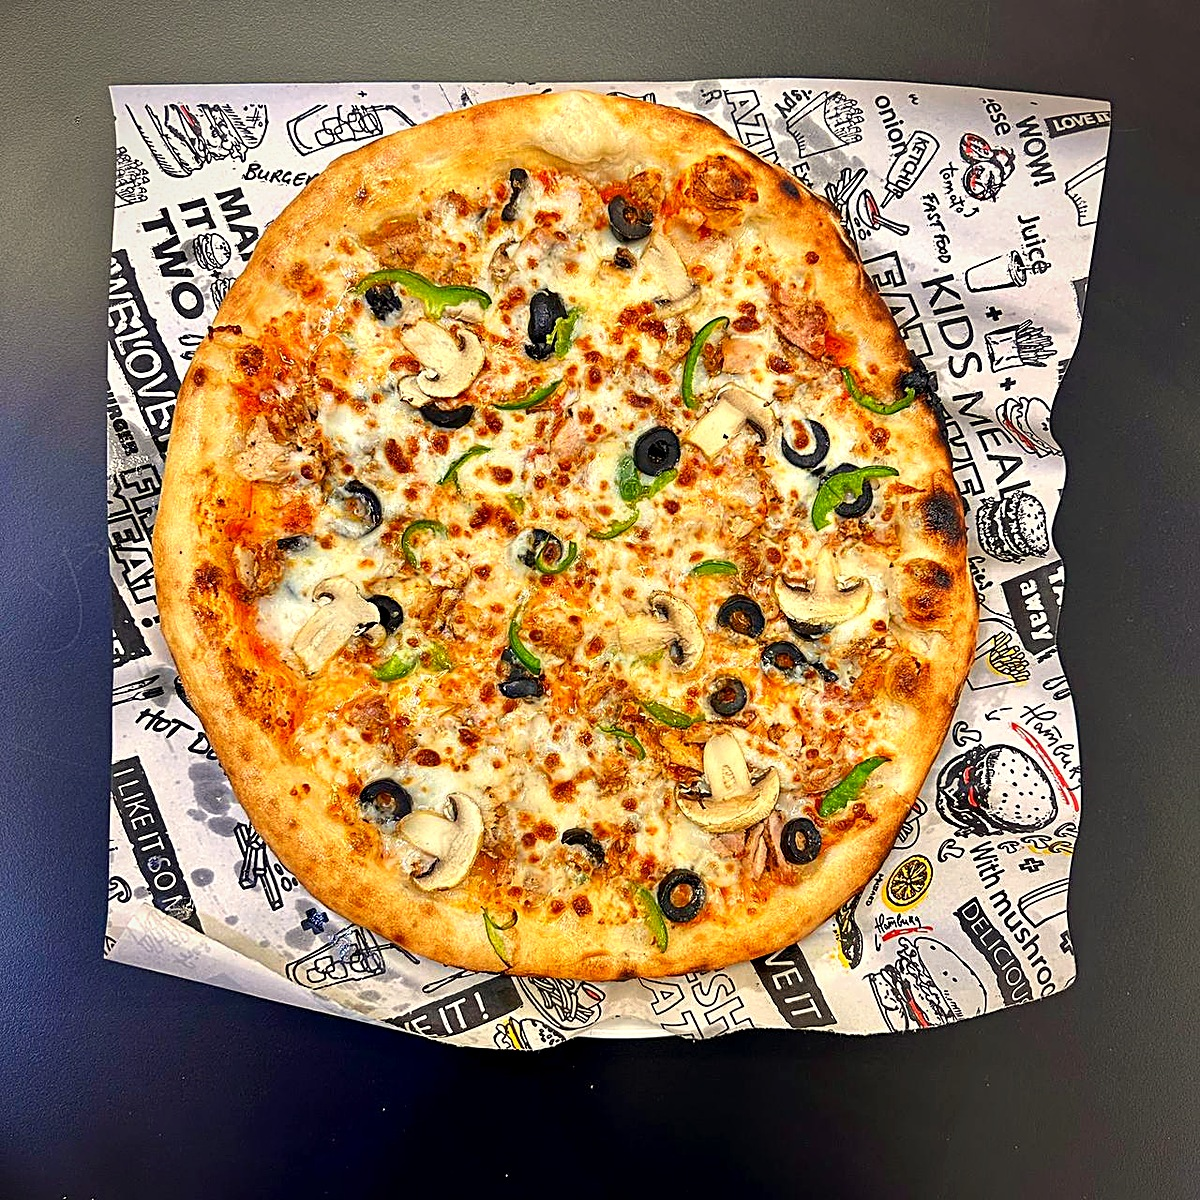
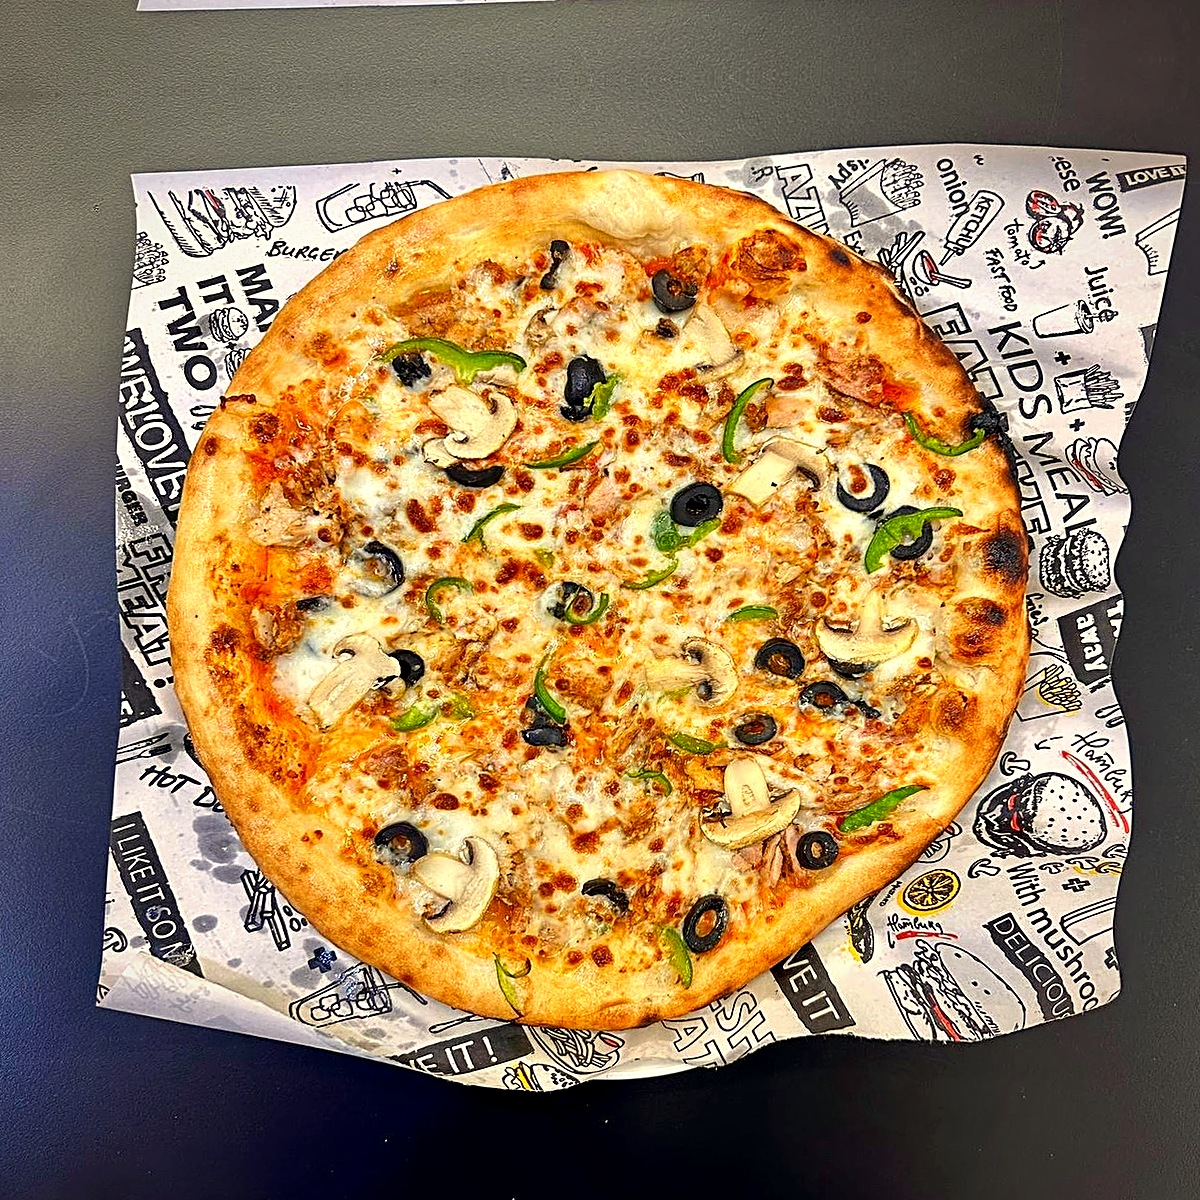
Make the real pizza photos round
roundify.py fits an ellipse to the crust and stretches the photo along
its short axis; radial.py then pulls the remaining bumps of the crust
edge onto a circle, easing back to no change outside the pizza so the
paper and table barely move. enhance.py is applied afterwards.

Claude-Session: https://claude.ai/code/session_01MUKyuqRDXBQd9pGTQn3E2V

diff --git a/src/menu/app-photos/real/radial.py b/src/menu/app-photos/real/radial.py
@@ -1,0 +1,38 @@
+import sys
+import cv2
+import numpy as np
+src, out = sys.argv[1], sys.argv[2]
+im = cv2.imread(src)
+h, w = im.shape[:2]
+hsv = cv2.cvtColor(im, cv2.COLOR_BGR2HSV)
+m = cv2.inRange(hsv, (6, 70, 150), (28, 255, 255))
+m = cv2.morphologyEx(m, cv2.MORPH_OPEN, cv2.getStructuringElement(cv2.MORPH_ELLIPSE, (9, 9)))
+m = cv2.morphologyEx(m, cv2.MORPH_CLOSE, cv2.getStructuringElement(cv2.MORPH_ELLIPSE, (61, 61)))
+cnts, _ = cv2.findContours(m, cv2.RETR_EXTERNAL, cv2.CHAIN_APPROX_NONE)
+inside = [k for k in cnts if cv2.pointPolygonTest(k, (w / 2, h / 2), False) >= 0]
+c = cv2.convexHull(max(inside or cnts, key=cv2.contourArea)).reshape(-1, 2).astype(float)
+M = cv2.moments(c.astype(np.int32))
+cx, cy = M['m10'] / M['m00'], M['m01'] / M['m00']
+# edge radius per degree, from the hull polygon, smoothed around the circle
+ang = np.arctan2(c[:, 1] - cy, c[:, 0] - cx)
+rad = np.hypot(c[:, 0] - cx, c[:, 1] - cy)
+bins = np.linspace(-np.pi, np.pi, 361)
+order = np.argsort(ang)
+r_theta = np.interp(bins, ang[order], rad[order], period=2 * np.pi)
+k = np.exp(-0.5 * (np.arange(-15, 16) / 6.0) ** 2); k /= k.sum()
+r_theta = np.convolve(np.concatenate([r_theta[-15:], r_theta, r_theta[:15]]), k, 'same')[15:-15]
+R = float(np.median(r_theta))
+print('centre', round(cx), round(cy), 'R', round(R), 'edge min/max', round(r_theta.min()), round(r_theta.max()))
+# inverse map: output pixel at radius p, angle t samples input radius p * r(t)/R inside the pizza,
+# easing back to no change by 1.35R so the paper/table barely moves
+yy, xx = np.mgrid[0:h, 0:w].astype(np.float32)
+dx, dy = xx - cx, yy - cy
+p = np.hypot(dx, dy)
+t = np.arctan2(dy, dx)
+s_edge = np.interp(t, bins, r_theta) / R
+blend = np.clip((p / R - 1.0) / 0.35, 0, 1)
+s = s_edge * (1 - blend) + 1.0 * blend
+mapx = (cx + dx * s).astype(np.float32)
+mapy = (cy + dy * s).astype(np.float32)
+res = cv2.remap(im, mapx, mapy, cv2.INTER_LANCZOS4, borderMode=cv2.BORDER_REFLECT)
+cv2.imwrite(out, res, [cv2.IMWRITE_JPEG_QUALITY, 95])

diff --git a/src/menu/app-photos/real/roundify.py b/src/menu/app-photos/real/roundify.py
@@ -1,0 +1,35 @@
+import sys
+import cv2
+import numpy as np
+src, out, dbg = sys.argv[1], sys.argv[2], sys.argv[3]
+im = cv2.imread(src)
+h, w = im.shape[:2]
+hsv = cv2.cvtColor(im, cv2.COLOR_BGR2HSV)
+# baked crust / sauce / browned cheese: warm hue with real saturation (paper and table are grey/white/black)
+m = cv2.inRange(hsv, (6, 70, 150), (28, 255, 255))
+m = cv2.morphologyEx(m, cv2.MORPH_OPEN, cv2.getStructuringElement(cv2.MORPH_ELLIPSE, (9, 9)))
+m = cv2.morphologyEx(m, cv2.MORPH_CLOSE, cv2.getStructuringElement(cv2.MORPH_ELLIPSE, (61, 61)))
+cnts, _ = cv2.findContours(m, cv2.RETR_EXTERNAL, cv2.CHAIN_APPROX_NONE)
+# the pizza is the blob that covers the image centre
+inside = [k for k in cnts if cv2.pointPolygonTest(k, (w / 2, h / 2), False) >= 0]
+c = max(inside or cnts, key=cv2.contourArea)
+hull = cv2.convexHull(c)
+(cx, cy), (a, b), ang = cv2.fitEllipse(hull)
+print('ellipse centre', round(cx), round(cy), 'axes', round(a), round(b), 'angle', round(ang, 1), 'ratio', round(max(a, b) / min(a, b), 3))
+# affine: rotate ellipse axes onto x/y, scale both axes to the mean diameter, rotate back
+d = (a + b) / 2
+t = np.deg2rad(ang)
+R = np.array([[np.cos(t), np.sin(t)], [-np.sin(t), np.cos(t)]])
+S = np.diag([d / a, d / b])
+A = R.T @ S @ R
+# keep the pizza centre at the image centre
+centre = np.array([w / 2, h / 2])
+off = centre - A @ np.array([cx, cy])
+M = np.hstack([A, off.reshape(2, 1)])
+warped = cv2.warpAffine(im, M, (w, h), flags=cv2.INTER_LANCZOS4, borderMode=cv2.BORDER_REFLECT)
+cv2.imwrite(out, warped, [cv2.IMWRITE_JPEG_QUALITY, 95])
+# debug: fitted ellipse on the input
+d_im = im.copy()
+cv2.ellipse(d_im, ((cx, cy), (a, b), ang), (0, 255, 0), 4)
+cv2.circle(d_im, (int(cx), int(cy)), int(d / 2), (255, 0, 255), 2)
+cv2.imwrite(dbg, d_im)
